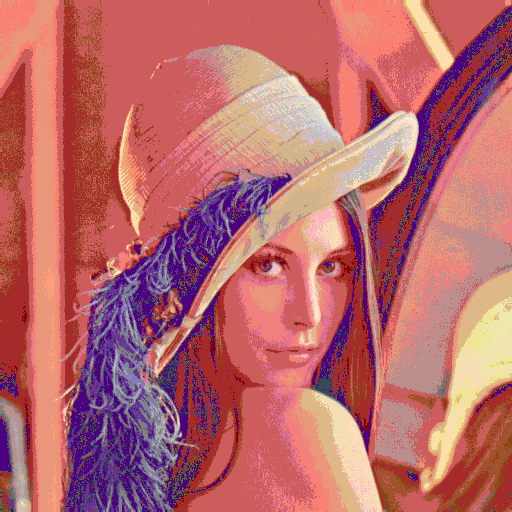
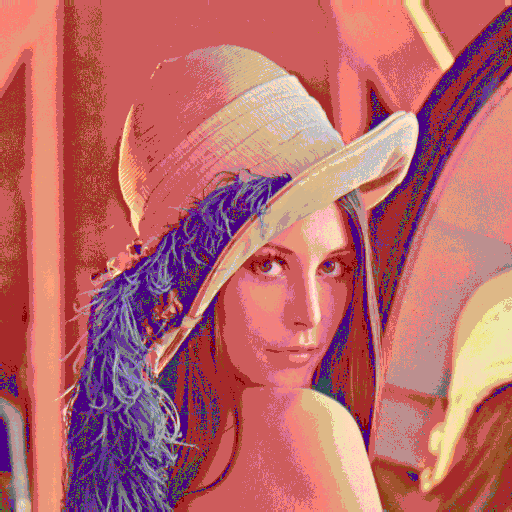
Refactor and fix up

diff --git a/reader.go b/reader.go
@@ -1,0 +1,77 @@
+package bi
+
+import (
+	"encoding/csv"
+	"fmt"
+	"image"
+	"io"
+	"strings"
+)
+
+// Decode reads a BI image from Reader r and returns it as an Image m.
+func Decode(r io.Reader) (m image.Image, err error) {
+	if err = decodeMagic(r); err != nil {
+		return
+	}
+	return decode(r)
+}
+
+// DecodeConfig decodes the Model and dimensions of a BI image from Reader r.
+func DecodeConfig(r io.Reader) (c image.Config, err error) {
+	if err = decodeMagic(r); err != nil {
+		return
+	}
+	return decodeConfig(r)
+}
+
+func decodeMagic(r io.Reader) error {
+	hdr := make([]byte, len(Magic))
+	if _, err := r.Read(hdr); err != nil {
+		return image.ErrFormat
+	}
+	if string(hdr) != Magic {
+		return fmt.Errorf("bi: expected magic number %q not found", Magic)
+	}
+	return nil
+}
+
+func decode(r io.Reader) (m image.Image, err error) {
+	cs, err := csv.NewReader(r).ReadAll()
+	if err != nil {
+		return
+	}
+	mx := len(cs[0])
+	my := len(cs)
+	img := image.NewRGBA(image.Rect(0, 0, mx, my))
+	for y, row := range cs {
+		if len(row) != mx {
+			err = fmt.Errorf("bi: row %d should have length %d, was %d", y, mx, len(row))
+			return
+		}
+		for x, n := range row {
+			c, ok := colors[strings.TrimSpace(n)]
+			if !ok {
+				err = image.ErrFormat
+				return
+			}
+			img.SetRGBA(x, y, c)
+		}
+	}
+	m = img
+	return
+}
+
+func decodeConfig(r io.Reader) (cfg image.Config, err error) {
+	cs, err := csv.NewReader(r).ReadAll()
+	if err != nil {
+		return
+	}
+	cfg.Width = len(cs[0])
+	cfg.Height = len(cs)
+	cfg.ColorModel = CSSColModLevel4
+	return
+}
+
+func init() {
+	image.RegisterFormat("bi", "bi\n", Decode, DecodeConfig)
+}

diff --git a/colors.go b/colors.go
@@ -3,7 +3,14 @@ package bi
 import (
 	"image/color"
 	"math"
+	"strings"
 )
+
+// CSSColModLevel4 is the Model for CSS Color Module Level 4.
+var CSSColModLevel4 color.Model = color.ModelFunc(func(c color.Color) color.Color {
+	nc, _ := nearestColor(c)
+	return nc
+})
 
 var colors = map[string]color.RGBA{
 	"aliceblue":            {240, 248, 255, 255},
@@ -156,13 +163,11 @@ var colors = map[string]color.RGBA{
 	"yellowgreen":          {154, 205, 50, 255},
 }
 
-// NearestColor returns the nearest Color support by BI. It also returns the
-// name of that color.
-func NearestColor(c color.Color) (nc color.Color, name string) {
+func nearestColor(c color.Color) (nc color.Color, name string) {
 	var mind uint32 = math.MaxUint32
 	for n, cc := range colors {
 		d := colorDissimilarity(c, cc)
-		if d < mind {
+		if d < mind || d == mind && strings.Compare(n, name) < 0 {
 			mind = d
 			nc = cc
 			name = n

diff --git a/writer.go b/writer.go
@@ -1,0 +1,34 @@
+package bi
+
+import (
+	"fmt"
+	"image"
+	"io"
+)
+
+// Encode encodes the Image m to the Writer w in BI format. As BI only supports
+// 148 colors, this process is very lossy.
+func Encode(w io.Writer, m image.Image) error {
+	if _, err := w.Write([]byte("bi\n")); err != nil {
+		return err
+	}
+	mp := m.Bounds().Max
+	mx, my := mp.X, mp.Y
+	for y := 0; y < my; y++ {
+		for x := 0; x < mx; x++ {
+			_, n := nearestColor(m.At(x, y))
+			if _, err := fmt.Fprint(w, n); err != nil {
+				return err
+			}
+			if x != mx-1 {
+				if _, err := fmt.Fprint(w, ", "); err != nil {
+					return err
+				}
+			}
+		}
+		if _, err := fmt.Fprintln(w); err != nil {
+			return err
+		}
+	}
+	return nil
+}

diff --git a/consts.go b/consts.go
@@ -3,6 +3,6 @@ package bi
 const (
 	// BI is the extension for BI image files.
 	BI = ".bi"
-	// BIZ is the extension for BIZ image files, the gzipped BI image format.
-	BIZ = ".biz"
+	// Magic is the magic number at the start of BI files.
+	Magic = "bi\n"
 )

diff --git a/README.md b/README.md
@@ -1,7 +1,7 @@
-# Bad Image (`.bi`/`.biz`)
+# Bad Image (`.bi`)
 
-`bi` is a library for the `BI`/`BIZ` image format.
-The `BI` format encodes images so that they are essentially CSV files using the named colors in the [CSS Color Module Level 4](https://www.w3.org/TR/css-color-4/#named-colors) to create a 2d matrix of color names.
+`bi` is a library for the BI image format.
+The BI format encodes images so that they are essentially CSV files using the named colors in the [CSS Color Module Level 4](https://www.w3.org/TR/css-color-4/#named-colors) to create a 2d matrix of color names.
 This means that they are plaintext editable.
 Nice.
 
@@ -11,8 +11,6 @@ bi
 red, green
 blue, white
 ```
-
-The `BIZ` format is the same except it is gzipped and the magic number at the start is `biz\n` instead of `bi\n`.
 
 ## Examples
 
